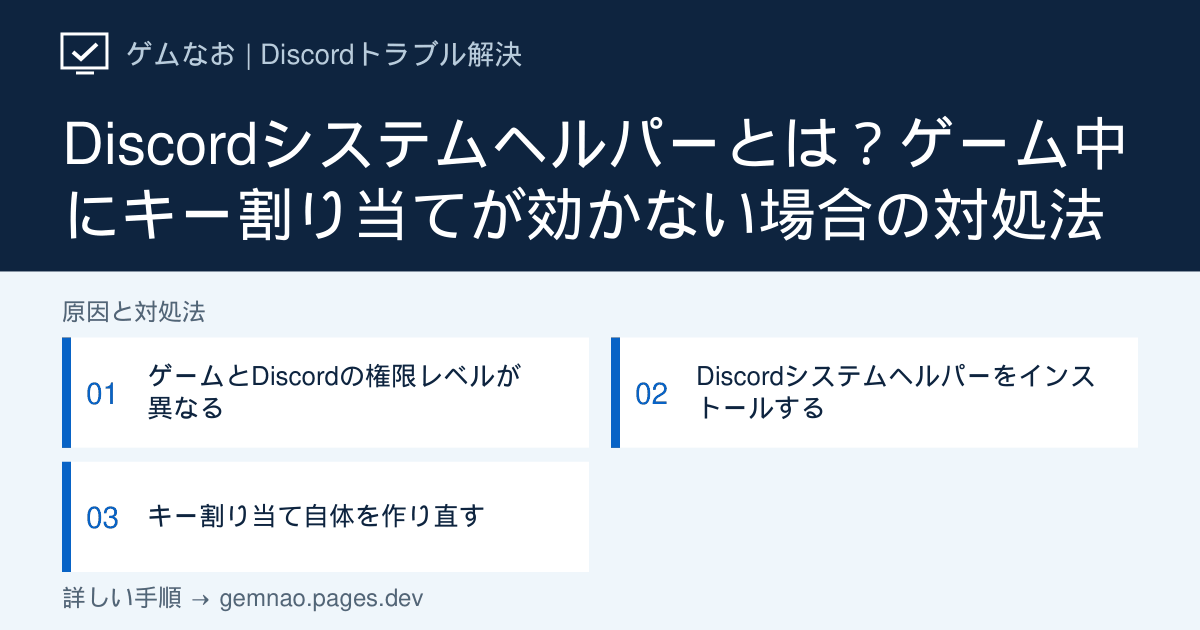
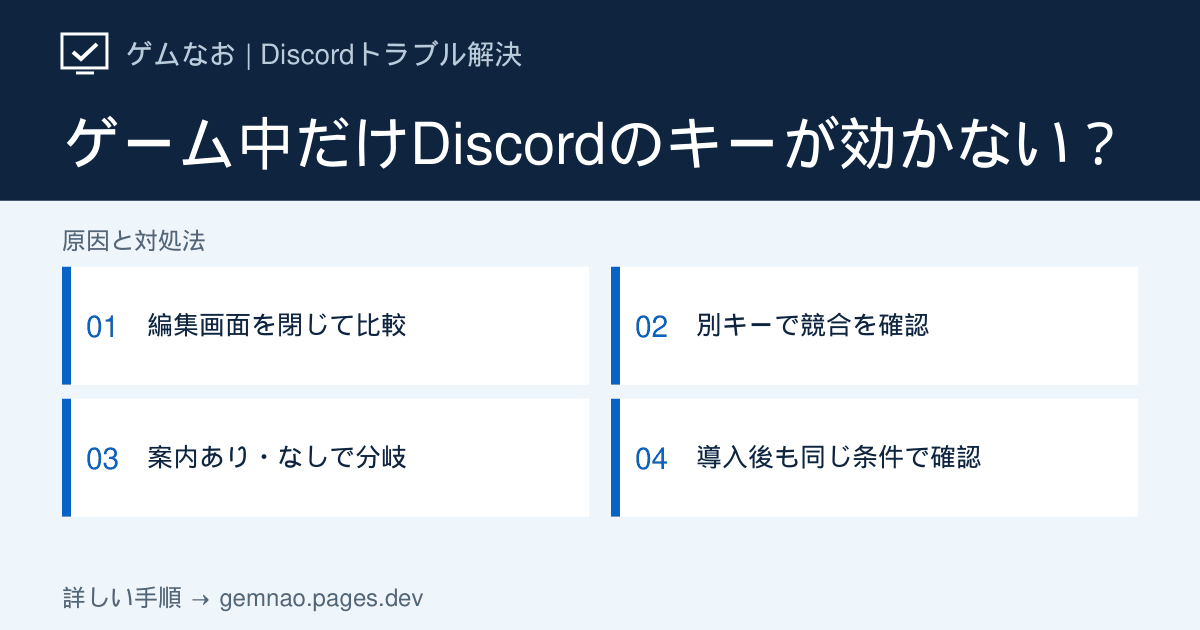
Improve system helper guide with keybind comparisons and missing-prompt branches

diff --git a/lib/discord-p0-articles.ts b/lib/discord-p0-articles.ts
@@ -593,83 +593,94 @@ export const discordP0Articles: DiscordArticle[] = [
     status: 'verified',
   },
   {
-    slug: 'system-helper',
-    category: 'game',
-    title:
-      'Discordシステムヘルパーとは？ゲーム中にキー割り当てが効かない場合の対処法',
+    slug: 'system-helper', category: 'game',
+    title: 'Discordシステムヘルパーとキー割り当て｜ゲーム中だけ効かない時の直し方',
     shortTitle: 'システムヘルパー・キー割り当て',
-    seoTitle:
-      'Discordシステムヘルパーとは？ゲーム中にキー割り当てが効かない場合',
-    metaDescription:
-      'Discordシステムヘルパーの役割と、ゲーム中にPush-to-Talkやオーバーレイのキー割り当てが効かない場合のWindows向け手順を説明します。',
-    symptom:
-      '管理者権限で動くゲーム中だけDiscordのPush-to-Talk、オーバーレイ切り替え、ゲーム用ショートカットが反応しない場合の手順です。',
-    target: '一部ユーザー向けWindows版 Discordデスクトップアプリ',
-    conclusion:
-      'Discordシステムヘルパーは、権限が異なるゲームでキー割り当てを動作させるための公式の実験的機能です。Discord内に案内が表示された場合だけ、内容を確認して管理者権限を許可しインストールします。',
-    quickFixes: [
-      'Discordのキー割り当てが通常画面では動くか確認する',
-      'ゲームオーバーレイ、キー割り当て、音声・ビデオ、Windows設定に案内があるか確認する',
-      '公式の案内が表示された場合だけシステムヘルパーをインストールする',
+    seoTitle: 'Discordシステムヘルパーが出ない・キー割り当てが効かない時の対処法',
+    metaDescription: 'Discordのキー割り当てがゲーム中だけ効かない時はゲーム外と比較。キー競合、システムヘルパーの案内が出ない場合、導入後も失敗する場合を分け、Push-to-Talkとオーバーレイの確認方法を解説します。',
+    symptom: 'ゲーム中にPush-to-Talkやミュート切り替えが効かない、オーバーレイを開くキーが反応しない、システムヘルパーの案内が見つからない場合の手順です。',
+    target: 'Windows版Discordデスクトップアプリ。システムヘルパーは公式案内上、一部ユーザー向けの実験機能',
+    conclusion: '最初にキー割り当ての編集画面を閉じ、ゲーム外とゲーム中で同じ操作を比べます。両方で失敗するなら設定・キー競合を先に確認。ゲーム中だけ失敗する場合は公式ヘルパーの案内を確認し、案内があれば導入後に同じ条件で再テストします。案内がない場合も、キー変更やゲーム別の比較は進められます。',
+    quickFixes: ['設定画面を閉じ、ゲーム外→ゲーム中で同じキーを試す', '別の未使用キーへ一時変更し、競合かどうか比較する', '公式案内の有無で分岐し、導入後も同じ操作で結果を確認する'],
+    showStatusCheck: false,
+    diagnosisTitle: 'ゲーム外・ゲーム中・ヘルパー案内の有無で選ぶ判断表',
+    diagnosisIntro: 'ヘルパーは管理者権限で動くゲームでのキー入力を補助する機能です。マイク不調やオーバーレイ非表示のすべてを直すものではありません。比較する操作は1つに絞ってください。',
+    diagnosis: [
+      { symptom: 'キー割り当ての編集画面で試している', check: '設定を閉じて再テスト。編集中はキー割り当てが無効', causeIndex: 1 },
+      { symptom: 'ゲーム外でもゲーム中でもキーが効かない', check: '割り当てる操作・キー記録・競合を確認', causeIndex: 2 },
+      { symptom: 'ゲーム外は成功／ゲーム中だけ失敗', check: '別キーで比較してからヘルパー案内を確認', causeIndex: 3 },
+      { symptom: 'ヘルパー案内が表示されない', check: '未提供の可能性。基本確認と代替操作へ', causeIndex: 4 },
+      { symptom: 'ヘルパー導入後も同じゲームで失敗', check: '導入前と同じ条件で再確認し、別ゲームと比較', causeIndex: 5 },
+      { symptom: 'ミュート切り替えは成功／声だけ届かない', check: 'キー入力ではなくマイク・通話設定を確認', causeIndex: 5 },
     ],
     causes: [
       {
-        title: 'ゲームとDiscordの権限レベルが異なる',
-        description:
-          '権限の高いゲームでは、通常権限のDiscordがキー入力を登録できない場合があります。',
+        title: '編集画面を閉じ、同じ操作をゲーム外とゲーム中で比べる',
+        description: 'Discord公式ではキー割り当ての編集中はキーが無効になると案内しています。キーを記録できたことと、実際に動くことは分けて確認します。',
         actions: [
-          'Discordのキー割り当て設定で対象ショートカットを確認する',
-          'ゲームを閉じた状態でショートカットが反応するか確認する',
-          'ゲーム中だけ効かない場合はDiscord内のシステムヘルパー案内を確認する',
+          'Discord左下の歯車→「キー割り当て」で、対象の操作名とキーを控える。Push-to-Talkは「音声・ビデオ」の入力モードとショートカットも確認する。',
+          'キーの記録を終了し、設定画面を閉じる。ゲームを起動していない状態でミュート切り替えなら1回押してアイコンの変化を見る。確認後は必要な状態へ戻す。',
+          'Push-to-Talkは通話中にキーを押しながら短い文章を話し、離した時との違いを相手に確認してもらう。マイクテストだけではゲーム中のキー動作を確認できない。',
+          '次にゲームの安全なメニュー画面を手前にし、同じキー・同じ操作で比較する。ミュート切り替えは押した後にAlt＋TabでDiscordへ戻って状態を見る。キーを連打しない。',
+          '両方失敗ならSTEP 2へ。ゲーム中だけ失敗ならキー競合を確認してSTEP 3へ。オーバーレイはゲーム内の機能なので、ゲーム外で開かないことを失敗の判定に使わない。',
         ],
       },
       {
-        title: 'Discordシステムヘルパーをインストールする',
-        description:
-          '公式案内が表示される一部ユーザーは、プロンプトから実験的なシステムヘルパーを導入できます。',
+        title: '別の未使用キーを記録し、競合と設定ミスを確認する',
+        description: 'ゲーム内操作や録画ソフト、キーボード付属ソフトと同じキーを使っていないか調べます。ヘルパーを入れる前に確認できる範囲です。',
         actions: [
-          'ゲームオーバーレイ、キー割り当て、音声・ビデオ、Windows設定のいずれかを開く',
-          'システムヘルパーの案内が表示されたら「インストールする」を選ぶ',
-          'Windowsの管理者権限プロンプトの発行元と内容を確認して許可する',
-          'インストール後に対応ゲームでキー割り当てを確認する',
+          '元のキーを控え、対象の操作が「未割り当て」になっていないか確認する。Push-to-TalkとPush-to-Muteなど、似た操作を取り違えていないかも見る。',
+          'Discordのキー記録で意図した組み合わせが表示されるか確認する。Fnキーやマウスの追加ボタンで記録が不安定なら、通常のキーボードのキーで比較する。',
+          'ゲーム・録画アプリなどで使用していない別のキーへ一時変更する。すべての環境で空いているキーはないので、手元の割り当て一覧で確認する。',
+          '編集画面を閉じ、STEP 1と同じゲーム外・ゲーム中の順で試す。別キーだけ動けば元のキーの競合・入力経路を重点的に確認する。改善しない変更は元へ戻す。',
+          '不要な録画・キー変更ソフトを1つずつ終了して比べる場合も、作業を保存して行う。セキュリティ機能やアンチチートを無効化する必要はない。',
         ],
-        note: '公式によると現在は実験段階で、Windowsデスクトップ版の一部ユーザーだけが利用できます。表示されない場合に外部サイトから入手しないでください。',
       },
       {
-        title: 'キー割り当て自体を作り直す',
-        description:
-          'ヘルパー導入後も反応しない場合は、競合するキーや設定を切り分けます。',
+        title: 'ゲーム中だけ失敗する場合は、Discord内の公式案内を確認する',
+        description: '権限が高いゲームではキー入力を受け取れない場合があります。ただしゲーム中だけ効かないという結果だけで、権限差が原因と断定はできません。',
         actions: [
-          'Discordの「キー割り当て」を開く',
-          '対象のPush-to-Talkまたはオーバーレイ操作を削除する',
-          'ゲーム内ショートカットと重複しないキーで登録し直す',
-          'Discordとゲームを再起動して確認する',
+          'WindowsにインストールしたDiscordのユーザー設定を開き、「ゲームオーバーレイ」「キー割り当て」「音声・ビデオ」「Windows設定」でヘルパー案内を探す。「Windows設定」はDiscord内の項目を指す。',
+          '案内があれば、その通知のインストール操作から進める。自分が開始した操作に対応するWindowsの許可画面か、発行元と内容を確認して承認する。管理PCで許可できない場合は管理者へ相談する。',
+          '導入処理を待ち、案内にエラーが出た場合はその文言を保存する。繰り返しインストールを押すのではなく、結果を確認してSTEP 5へ進む。',
+          '案内がなければSTEP 4へ。外部サイトで同名のファイルを探したり、案内を出す目的でゲームの権限を上げたりしない。',
+        ],
+      },
+      {
+        title: '案内がない場合は、基本確認と代替操作を使う',
+        description: '公式ではWindowsデスクトップ版の一部ユーザー向けの実験機能です。案内がないこと自体をインストール失敗とは扱いません。',
+        actions: [
+          'ブラウザ版・スマートフォン版ではなくWindowsデスクトップアプリか確認する。ヘルパーを使うためにブラウザへ導入する手順はない。',
+          'Discordを通知領域から終了し、起動時の更新を完了させて案内を再確認する。更新しても必ず提供されるわけではないため、表示されなければ未提供の可能性を記録する。',
+          'STEP 2の別キーでの比較と、可能なら別のインストール済みゲームでの比較を行う。別ゲームは成功なら、元のゲーム名・表示モード・失敗する操作を控える。',
+          '当面はAlt＋TabでDiscordへ戻ってミュートを操作するなど、手動操作を使う。Push-to-Talkの代わりに音声検出を使う場合は、周囲の音が送信されないか確認してから切り替える。',
+          '案内を出すためだけの再インストールや、常時管理者実行を一律の解決策にしない。比較結果を公式サポートへ渡す。',
+        ],
+      },
+      {
+        title: '導入後も、キー操作・音声・オーバーレイを分けて再確認する',
+        description: '導入操作が終わったことと症状が直ったことは別です。導入前と同じゲーム・キー・操作で比較してください。',
+        actions: [
+          'Discord内の「Windows設定」にヘルパーのアンインストール項目など導入後の表示があるか確認する。表示が不明なら、成功と決めつけず案内画面とエラーの有無を記録する。',
+          '設定を閉じてSTEP 1の比較を繰り返す。Push-to-Talkは押している間の声が相手へ届くか、ミュート切り替えは1回押すごとに状態が変わるかを見る。',
+          '変わらなければゲームの進行を保存し、Discordとゲームを再起動して再テストする。別キー・別ゲームでも比較し、1本だけ失敗するか複数で失敗するかを残す。',
+          'ミュート切り替えは動くのに声が届かない場合は「マイクが反応しない」へ。オーバーレイだけ開かない場合は有効化を確認し、ゲーム側で選べるならウィンドウ／ボーダーレスで比較して「オーバーレイが表示されない」へ進む。',
+          '改善後はDiscordとゲームを起動し直しても再現しないか確認する。不要になったヘルパーはDiscordの「ユーザー設定」→「Windows設定」にあるアンインストールから削除できる。',
         ],
       },
     ],
-    ifNotFixed:
-      'システムヘルパーが表示されない場合は、未提供のアカウント・環境である可能性があります。Discordを最新版にし、通常権限のゲームでもキー割り当てが効かないか確認して、利用環境と症状を公式サポートへ伝えてください。',
+    ifNotFixed: '相談時は「Windows・Discordのバージョン／ゲーム名／操作名とキー／ゲーム外・ゲーム中の結果／別キー・別ゲームの結果／ヘルパー案内と導入前後の状態」をまとめます。画像のユーザー名やサーバー名は隠し、管理者パスワードなどは送らないでください。',
     faqs: [
-      {
-        question: 'Discordシステムヘルパーは全員に必要ですか？',
-        answer:
-          'いいえ。公式では、権限の異なるゲームでキー割り当てなどを動作させるための実験的機能で、Windowsデスクトップ版の一部ユーザーだけに提供されています。',
-      },
-      {
-        question: 'ブラウザ版やスマホ版にも必要ですか？',
-        answer:
-          '必要ありません。Discord公式はモバイル版とウェブ版には対応しておらず、必要でもないと案内しています。',
-      },
-      {
-        question: 'システムヘルパーが見つかりません',
-        answer:
-          '一部ユーザー向けの実験機能です。Discord内に公式の案内がない場合は、外部サイトからファイルを入手せず、通常のキー割り当て確認を行ってください。',
-      },
+      { question: 'キーを記録できるのに、設定画面では動きません', answer: '公式では編集中のキー割り当ては無効になります。記録を終了し設定画面を閉じてから、ゲーム外とゲーム中で実際の動作を確認してください。' },
+      { question: 'ヘルパーがないとDiscordは使えませんか？', answer: '通常のDiscord機能は利用できます。ヘルパーは特定の権限条件でキー割り当てを補助するもので、全員に導入が必要な機能ではありません。' },
+      { question: 'ヘルパーを入れればオーバーレイも必ず映りますか？', answer: '保証されません。キー入力の補助とオーバーレイの表示条件は別です。有効化やゲームの表示モードも確認し、専用記事で切り分けます。' },
+      { question: '導入してもゲーム中だけ効かない場合は？', answer: '同じ操作を別キー・別ゲームで比較します。1本だけならゲーム固有の条件、複数で同じならDiscord側や共通するキー設定を優先して調べ、導入前後の結果を添えて相談します。' },
     ],
-    sources: [systemHelperGuide, overlayGuide],
-    related: ['overlay-not-showing', 'mic-not-working', 'not-opening'],
-    checkedAt: '2026-09-17',
-    status: 'verified',
+    sources: [systemHelperGuide, overlayGuide, official('217083547-How-do-I-add-different-Keybinds', 'キー割り当ての追加と編集中の注意'), { label: 'Discord公式サポート：問い合わせ', url: 'https://support.discord.com/hc/en-us/requests/new' }],
+    related: ['overlay-not-showing', 'mic-not-working', 'update-failed'],
+    checkedAt: '2026-09-28', status: 'verified',
+    ogTitle: 'ゲーム中だけDiscordのキーが効かない？',
+    ogSteps: ['編集画面を閉じて比較', '別キーで競合を確認', '案内あり・なしで分岐', '導入後も同じ条件で確認'],
   },
   {
     slug: 'overlay-not-showing',

diff --git a/lib/og-image-manifest.ts b/lib/og-image-manifest.ts
@@ -29,7 +29,7 @@ export const ogImageManifest: Record<string, string> = {
   "/discord/screen-share-not-working": "950ea3dc",
   "/discord/slow-performance": "bd25d9b2",
   "/discord/stream-no-audio": "bfb2ee4d",
-  "/discord/system-helper": "7455f630",
+  "/discord/system-helper": "252bdb32",
   "/discord/update-failed": "713603d8",
   "/discord/user-volume-low": "31161b2c",
   "/discord/voice-client-outdated": "9940ed57",
